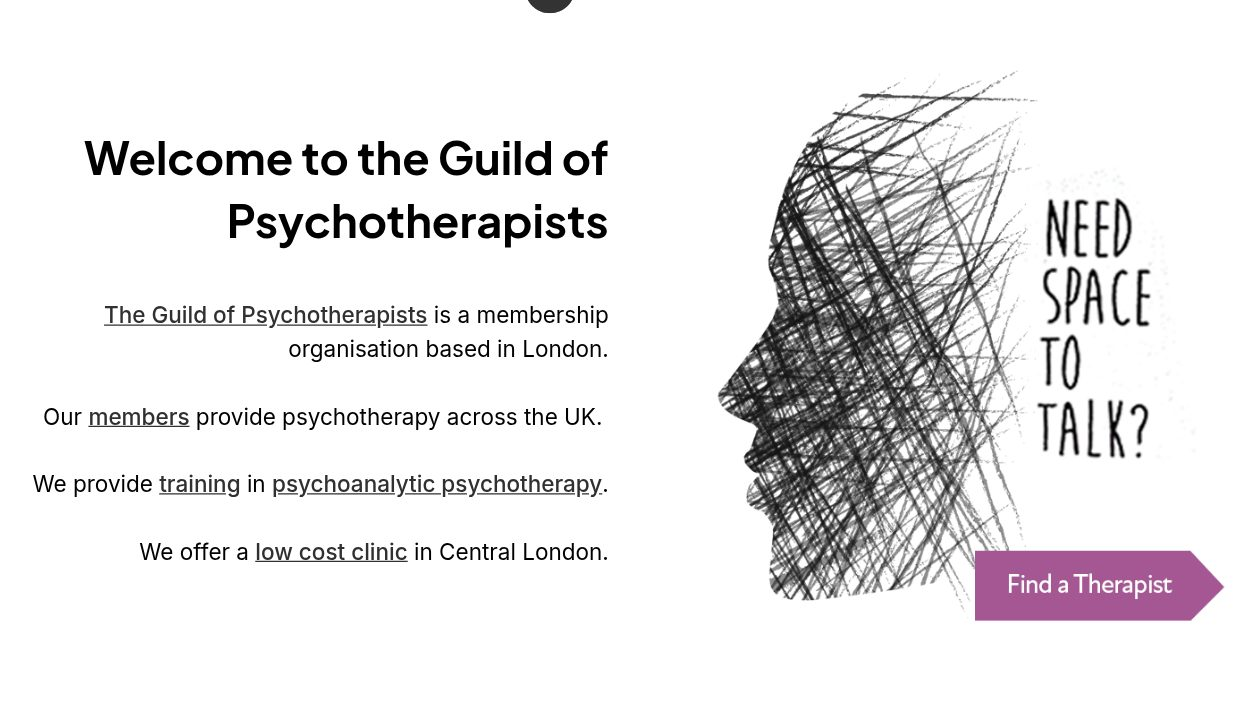
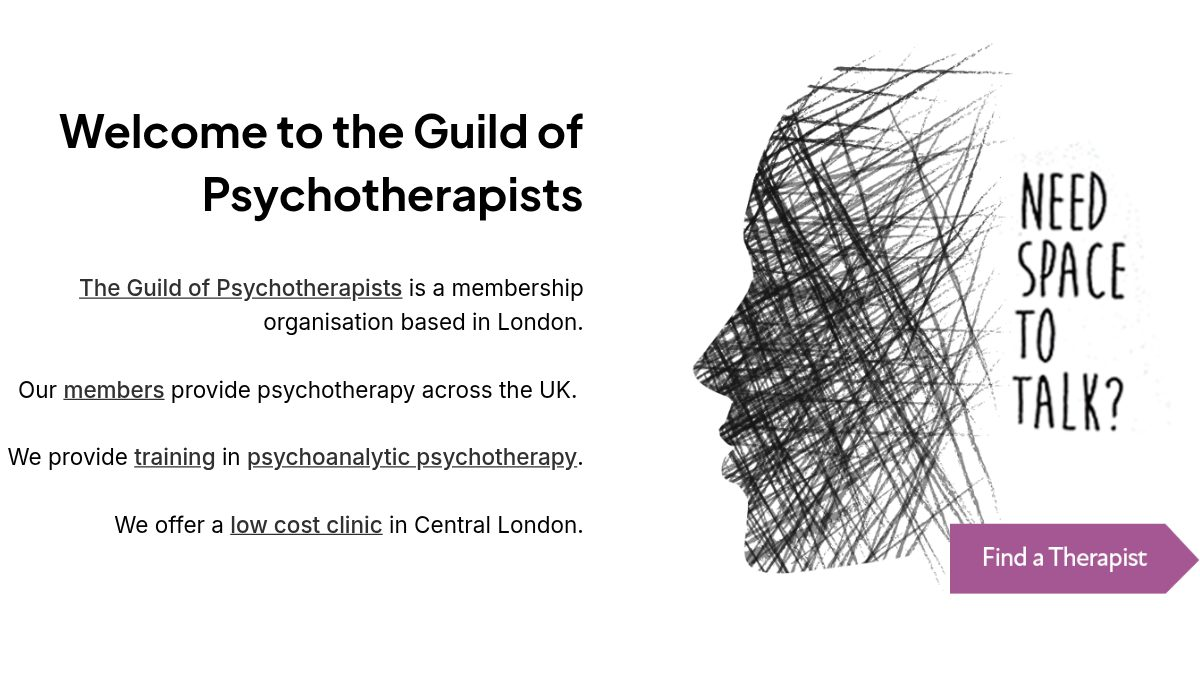
Hero CTA, equal-height cards, clean Guild crop

diff --git a/src/styles/global.css b/src/styles/global.css
@@ -65,3 +65,6 @@ html { scroll-behavior: smooth; }
 @media (prefers-reduced-motion: reduce) {
   html { scroll-behavior: auto; }
 }
+
+.lead { font-size: 1.25rem; margin-bottom: 0.75rem; }
+.cta { display: flex; gap: 1.25rem; }
